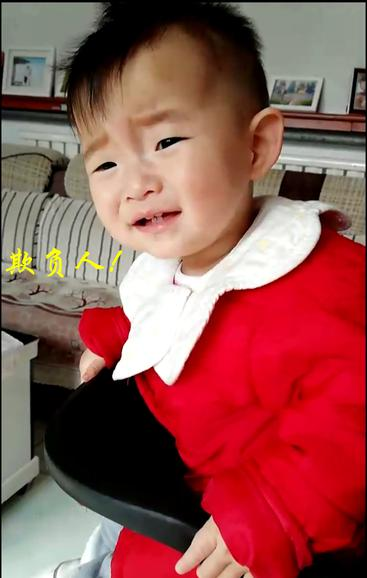
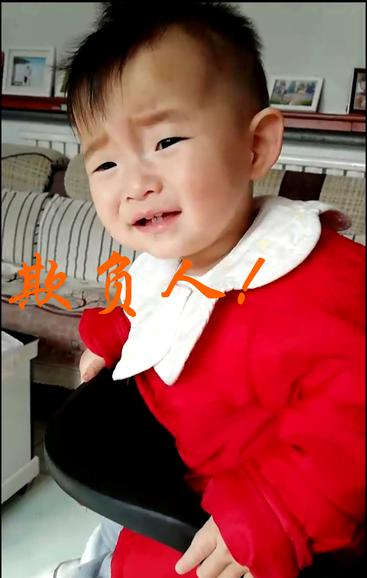
add examle for make gif

Changed region(s): [[0.0, 0.4048, 0.2098, 0.5606], [0.4196, 0.436, 0.7193, 0.5294], [0.2098, 0.4048, 0.3896, 0.5606]]

diff --git a/python/image_operation/makegif/makegif.py b/python/image_operation/makegif/makegif.py
@@ -9,9 +9,9 @@ from PIL import ImageDraw
 standard_scale = 0.34
 standard_crop = (0, 180, 1080, 1880)
 input_image = [
-    [(255,0,0),     100, (720, 900), "Screenshot_20190303-111401.jpg", "干啥呢？", standard_crop],
-    [(255,255,0),   100, (10, 900), "Screenshot_20190303-111528.jpg", "欺负人！", standard_crop],
-    [(255,0,255),   100, (10, 700), "Screenshot_20190303-163015.jpg", "我美吗？", standard_crop]
+    [(0,255,0),     220, (220, 1200), "Screenshot_20190303-111401.jpg", "干啥呢？", standard_crop],
+    [(255,97,0),   220, (10, 900), "Screenshot_20190303-111528.jpg", "欺负人！", standard_crop],
+    [(255,0,255),   220, (10, 200), "Screenshot_20190303-163015.jpg", "我美吗？", standard_crop]
 ]
 
  
@@ -38,7 +38,7 @@ def make_gif(gif_name):
         #for j in range(3):
         frames.append(imageio.imread('{0}.jpg'.format(x)))
     # Save them as frames into a gif 
-    imageio.mimsave(gif_name, frames, 'GIF', duration = 1.2)
+    imageio.mimsave(gif_name, frames, 'GIF', duration = 1.4)
 
 
 def add_text():
